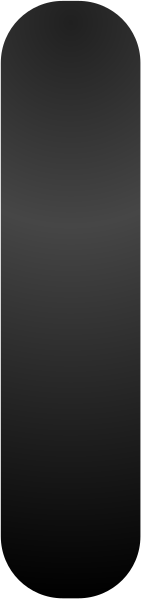
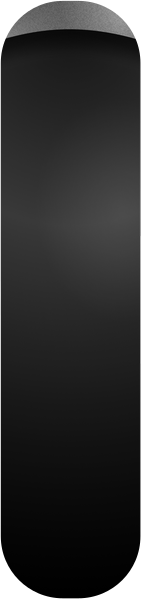
feat(app): add directional scooter clearcoat (librescoot-9oip)

Changed region(s): [[0.0, 0.0, 0.9929, 0.0902]]

diff --git a/test/ui/scooter_side_visual_test.dart b/test/ui/scooter_side_visual_test.dart
@@ -125,6 +125,57 @@ void main() {
     expect((effects.last as Map<String, dynamic>)['blendMode'], 'srcOver');
   });
 
+  test('adds directional gloss before foreground details', () async {
+    final encoded = await File('images/scooter/custom_artwork_layers.json').readAsString();
+    final manifest = jsonDecode(encoded) as Map<String, dynamic>;
+    final views = manifest['views'] as Map<String, dynamic>;
+    final front = views['front'] as Map<String, dynamic>;
+    final glossLayers = front['glossLayers'] as List<dynamic>;
+    final paintLayers = front['paintLayers'] as List<dynamic>;
+    final foregroundEffects = (paintLayers.last as Map<String, dynamic>)['effects'] as List<dynamic>;
+
+    expect(glossLayers, hasLength(3));
+    expect(
+      glossLayers.map((value) => (value as Map<String, dynamic>)['blendMode']),
+      everyElement('screen'),
+    );
+    expect(
+      glossLayers.map((value) => (value as Map<String, dynamic>)['asset']),
+      containsAll(<String>[
+        'images/scooter/custom_front_gloss_bloom.png',
+        'images/scooter/custom_front_gloss_contour.png',
+        'images/scooter/custom_front_gloss_sweep.png',
+      ]),
+    );
+    expect(
+      front['glossBefore'],
+      (foregroundEffects.last as Map<String, dynamic>)['asset'],
+    );
+    expect(
+      paintLayers
+          .expand(
+            (value) => (value as Map<String, dynamic>)['effects'] as List<dynamic>,
+          )
+          .map((value) => (value as Map<String, dynamic>)['blendMode']),
+      isNot(contains('softLight')),
+    );
+    final side = views['side'] as Map<String, dynamic>;
+    final sideGlossLayers = side['glossLayers'] as List<dynamic>;
+    final sidePaintLayers = side['paintLayers'] as List<dynamic>;
+    final sideForegroundEffects = (sidePaintLayers.last as Map<String, dynamic>)['effects'] as List<dynamic>;
+    expect(sideGlossLayers, hasLength(3));
+    expect(
+      sideGlossLayers.map(
+        (value) => (value as Map<String, dynamic>)['blendMode'],
+      ),
+      everyElement('screen'),
+    );
+    expect(
+      side['glossBefore'],
+      (sideForegroundEffects.last as Map<String, dynamic>)['asset'],
+    );
+  });
+
   testWidgets('can omit the independently rendered ground shadow', (tester) async {
     await tester.pumpWidget(
       const MaterialApp(

diff --git a/lib/ui/widgets/rendered_scooter_artwork.dart b/lib/ui/widgets/rendered_scooter_artwork.dart
@@ -358,6 +358,8 @@ class _ArtworkViewData {
     required this.shadow,
     required this.under,
     required this.paintLayers,
+    required this.glossLayers,
+    required this.glossBefore,
   });
 
   factory _ArtworkViewData.fromJson(Map<String, dynamic> json) => _ArtworkViewData(
@@ -369,6 +371,11 @@ class _ArtworkViewData {
           for (final value in json['paintLayers'] as List<dynamic>)
             _ArtworkPaintLayer.fromJson(value as Map<String, dynamic>),
         ],
+        glossLayers: [
+          for (final value in (json['glossLayers'] as List<dynamic>?) ?? const [])
+            _ArtworkLayer.fromJson(value as Map<String, dynamic>),
+        ],
+        glossBefore: json['glossBefore'] as String?,
       );
 
   final int width;
@@ -376,6 +383,8 @@ class _ArtworkViewData {
   final _ArtworkLayer shadow;
   final _ArtworkLayer under;
   final List<_ArtworkPaintLayer> paintLayers;
+  final List<_ArtworkLayer> glossLayers;
+  final String? glossBefore;
 
   List<_ArtworkLayer> get allLayers => [
         shadow,
@@ -384,6 +393,7 @@ class _ArtworkViewData {
           paintLayer.paint,
           ...paintLayer.effects,
         ],
+        ...glossLayers,
       ];
 
   Iterable<_ArtworkLayer> layers({required bool matte, required bool showShadow}) sync* {
@@ -393,7 +403,14 @@ class _ArtworkViewData {
     yield under;
     for (final paintLayer in paintLayers) {
       yield paintLayer.paint;
-      yield* paintLayer.effects.where((effect) => matte || !effect.matteOnly);
+      for (final effect in paintLayer.effects) {
+        if (!matte && effect.asset == glossBefore) {
+          yield* glossLayers;
+        }
+        if (matte || !effect.matteOnly) {
+          yield effect;
+        }
+      }
     }
   }
 }

diff --git a/tool/build_scooter_artwork.py b/tool/build_scooter_artwork.py
@@ -11,7 +11,9 @@ import tempfile
 import xml.etree.ElementTree as ET
 from pathlib import Path
 
+import numpy as np
 from PIL import Image
+from scipy.ndimage import distance_transform_edt, gaussian_filter
 
 SVG_NS = "http://www.w3.org/2000/svg"
 XLINK_NS = "http://www.w3.org/1999/xlink"
@@ -199,6 +201,184 @@ def render_cropped(root: ET.Element, destination: Path) -> dict[str, object]:
     }
 
 
+def full_layer_alpha(output: Path, layer: dict[str, object], size: tuple[int, int]) -> np.ndarray:
+    alpha = np.zeros((size[1], size[0]), dtype=np.float32)
+    with Image.open(output / Path(str(layer["asset"])).name) as source:
+        cropped = np.array(source.convert("RGBA"), dtype=np.uint8)[..., 3] / 255
+    x, y = int(layer["x"]), int(layer["y"])
+    width, height = int(layer["width"]), int(layer["height"])
+    alpha[y : y + height, x : x + width] = cropped
+    return alpha
+
+
+def save_alpha_layer(
+    destination: Path,
+    alpha: np.ndarray,
+    colour: tuple[int, int, int],
+) -> dict[str, object]:
+    alpha_image = Image.fromarray(np.clip(alpha * 255, 0, 255).astype(np.uint8), "L")
+    bounds = alpha_image.getbbox() or (0, 0, 1, 1)
+    rgba = Image.new("RGBA", alpha_image.size, (*colour, 0))
+    rgba.putalpha(alpha_image)
+    rgba.crop(bounds).save(destination, "PNG", optimize=True)
+    left, top, right, bottom = bounds
+    return {
+        "asset": f"images/scooter/{destination.name}",
+        "x": left,
+        "y": top,
+        "width": right - left,
+        "height": bottom - top,
+        "blendMode": "screen",
+    }
+
+
+def build_gloss(
+    output: Path,
+    manifest: dict[str, object],
+    view: str,
+) -> None:
+    width, height = SIZES[view]
+    paint_layers = manifest["paintLayers"]
+    assert isinstance(paint_layers, list)
+    masks = [
+        full_layer_alpha(output, paint_layer["paint"], (width, height))
+        for paint_layer in paint_layers
+    ]
+    combined = np.maximum.reduce(masks)
+    surfaces = (
+        [masks[0], np.maximum(masks[1], masks[2])]
+        if view == "front"
+        else masks
+    )
+    contour = np.zeros((height, width), dtype=np.float32)
+    sweep = np.zeros_like(contour)
+    y_grid, x_grid = np.mgrid[:height, :width]
+
+    for index, mask in enumerate(surfaces):
+        inside = mask > 0.02
+        ys, xs = np.nonzero(inside)
+        x0, x1 = xs.min(), xs.max()
+        y0, y1 = ys.min(), ys.max()
+        distance = distance_transform_edt(inside)
+        distance_scale = np.percentile(distance[inside], 97) or 1
+        bulge = np.clip(distance / distance_scale, 0, 1) ** 0.58
+        if view == "front":
+            surface_blur = 7 if index == 0 else 3
+            normal_strength = 22 if index == 0 else 11
+        else:
+            surface_blur = max(3, round(min(x1 - x0, y1 - y0) / 90))
+            normal_strength = 18
+        surface = gaussian_filter(bulge * mask, surface_blur)
+
+        gradient_y, gradient_x = np.gradient(surface)
+        normal_x = -gradient_x * normal_strength
+        normal_y = -gradient_y * normal_strength
+        normal_z = np.ones_like(normal_x)
+        normal_length = np.sqrt(
+            normal_x * normal_x + normal_y * normal_y + normal_z * normal_z
+        )
+        normal_x /= normal_length
+        normal_y /= normal_length
+        normal_z /= normal_length
+
+        normal_half = np.clip(
+            normal_x * -0.30 + normal_y * -0.40 + normal_z * 0.865,
+            0,
+            1,
+        )
+        sharp = normal_half**30
+        broad = normal_half**7
+        if view == "front":
+            inset = 15 if index == 0 else 6
+        else:
+            inset = max(6, round(min(x1 - x0, y1 - y0) * 0.026))
+        inset_width = max(3, round(inset * 0.52))
+        edge_gate = np.clip((distance - 3) / inset, 0, 1) ** 0.8
+        inset_rim = np.exp(-((distance - inset) / inset_width) ** 2) * inside
+        slope = np.sqrt(normal_x * normal_x + normal_y * normal_y)
+        light_facing = np.clip(
+            (-0.66 * normal_x - 0.75 * normal_y) / (slope + 1e-6),
+            0,
+            1,
+        ) ** 0.7
+        local_x = (x_grid - x0) / max(x1 - x0, 1)
+        local_y = (y_grid - y0) / max(y1 - y0, 1)
+        lit_side = np.clip((0.82 - local_x) / 0.58, 0, 1)
+        lit_height = np.clip((0.90 - local_y) / 0.58, 0, 1)
+        local = np.clip(0.72 * sharp + 0.20 * broad + 0.12 * inset_rim, 0, 1)
+        local *= light_facing * lit_side * lit_height * edge_gate * mask
+        contour = np.maximum(contour, local)
+
+        reflected_center = x0 + (x1 - x0) * (0.28 + 0.12 * (local_y - 0.25))
+        if view == "front" and index == 0:
+            nose_y = np.exp(-((y_grid - 731) / 185) ** 2)
+            reflected_center -= 86 * nose_y
+            nose_core = np.exp(
+                -(
+                    ((x_grid - 433) / 145) ** 2
+                    + ((y_grid - 731) / 164) ** 2
+                )
+                * 2.2
+            )
+            stripe_width = 43
+        else:
+            nose_core = 0
+            stripe_width = max(
+                10 if view == "front" else 14,
+                (x1 - x0) * (0.09 if view == "front" else 0.075),
+            )
+        stripe = np.exp(-((x_grid - reflected_center) / stripe_width) ** 2)
+        taper = np.sin(np.clip(local_y, 0, 1) * np.pi) ** 0.7
+        stripe *= taper * np.clip(bulge * 1.5, 0, 1) * edge_gate * mask
+        stripe *= 1 - 0.92 * nose_core
+        sweep = np.maximum(sweep, stripe)
+
+    bloom = gaussian_filter(np.clip(contour * 0.75 + sweep * 0.65, 0, 1), 7)
+    bloom *= combined
+    gloss_layers = [
+        save_alpha_layer(
+            output / f"custom_{view}_gloss_bloom.png",
+            np.clip(bloom * 0.32, 0, 0.30),
+            (225, 238, 255),
+        ),
+        save_alpha_layer(
+            output / f"custom_{view}_gloss_contour.png",
+            np.clip(contour * 0.92, 0, 0.88),
+            (255, 255, 255),
+        ),
+        save_alpha_layer(
+            output / f"custom_{view}_gloss_sweep.png",
+            np.clip(sweep * 0.70, 0, 0.70),
+            (245, 250, 255),
+        ),
+    ]
+    final_effects = paint_layers[-1]["effects"]
+    assert isinstance(final_effects, list) and final_effects
+    manifest["glossBefore"] = final_effects[-1]["asset"]
+    manifest["glossLayers"] = gloss_layers
+
+
+def replace_front_tire(
+    reference: Path,
+    destination: Path,
+    layer: dict[str, object],
+) -> None:
+    with Image.open(reference) as source:
+        target_height = round(source.height * SIZES["front"][0] / source.width)
+        scaled = source.convert("RGBA").resize(
+            (SIZES["front"][0], target_height), Image.Resampling.LANCZOS
+        )
+    aligned = Image.new("RGBA", SIZES["front"])
+    aligned.alpha_composite(scaled, (0, FRONT_TOP))
+    with Image.open(destination) as tire:
+        alpha = tire.convert("RGBA").getchannel("A")
+    x, y = int(layer["x"]), int(layer["y"])
+    bounds = (x, y, x + int(layer["width"]), y + int(layer["height"]))
+    replacement = aligned.crop(bounds).convert("L").convert("RGBA")
+    replacement.putalpha(alpha)
+    replacement.save(destination, "PNG", optimize=True)
+
+
 def effect_groups(leaves: list[ET.Element], start: int, end: int) -> list[tuple[set[int], str, bool]]:
     groups: list[tuple[set[int], str, bool]] = []
     for index in range(start, end):
@@ -242,19 +422,28 @@ def build_layers(source_file: Path, output: Path, view: str) -> dict[str, object
             output / f"custom_{view}_paint_{layer}.png",
         )
         effects: list[dict[str, object]] = []
-        for effect, (indices, mode, matte_only) in enumerate(
-            effect_groups(leaves, paint_index + 1, next_paint)
+        effect_number = 0
+        for indices, mode, matte_only in effect_groups(
+            leaves, paint_index + 1, next_paint
         ):
+            fills = {leaves[index].get("fill", "") for index in indices}
+            if view == "front" and any("paint30_radial" in fill for fill in fills):
+                continue
             effect_root = select_leaves(root, indices)
             remove_blend_modes(effect_root)
-            effect_data = render_cropped(
-                effect_root,
-                output / f"custom_{view}_effect_{layer}_{effect}.png",
-            )
+            destination = output / f"custom_{view}_effect_{layer}_{effect_number}.png"
+            effect_data = render_cropped(effect_root, destination)
+            if view == "front" and any("paint29_radial" in fill for fill in fills):
+                replace_front_tire(
+                    source_file.parent / "coral" / "mode=scooter@2x.png",
+                    destination,
+                    effect_data,
+                )
             effect_data["blendMode"] = mode
             if matte_only:
                 effect_data["matteOnly"] = True
             effects.append(effect_data)
+            effect_number += 1
         paint_layers.append({"paint": paint, "effects": effects})
     manifest["paintLayers"] = paint_layers
     return manifest
@@ -276,14 +465,22 @@ def main() -> None:
     parser.add_argument("output", type=Path, help="Runtime artwork directory")
     args = parser.parse_args()
     args.output.mkdir(parents=True, exist_ok=True)
-    for pattern in ("custom_*_effect_*.png", "custom_*_over_*.png"):
+    for pattern in (
+        "custom_*_effect_*.png",
+        "custom_*_gloss_*.png",
+        "custom_*_over_*.png",
+    ):
         for stale in args.output.glob(pattern):
             stale.unlink()
+    front = build_layers(args.source / "mode=scooter.svg", args.output, "front")
+    side = build_layers(args.source / "side_master.svg", args.output, "side")
+    build_gloss(args.output, front, "front")
+    build_gloss(args.output, side, "side")
     manifest = {
         "version": 1,
         "views": {
-            "front": build_layers(args.source / "mode=scooter.svg", args.output, "front"),
-            "side": build_layers(args.source / "side_master.svg", args.output, "side"),
+            "front": front,
+            "side": side,
         },
     }
     (args.output / "custom_artwork_layers.json").write_text(
